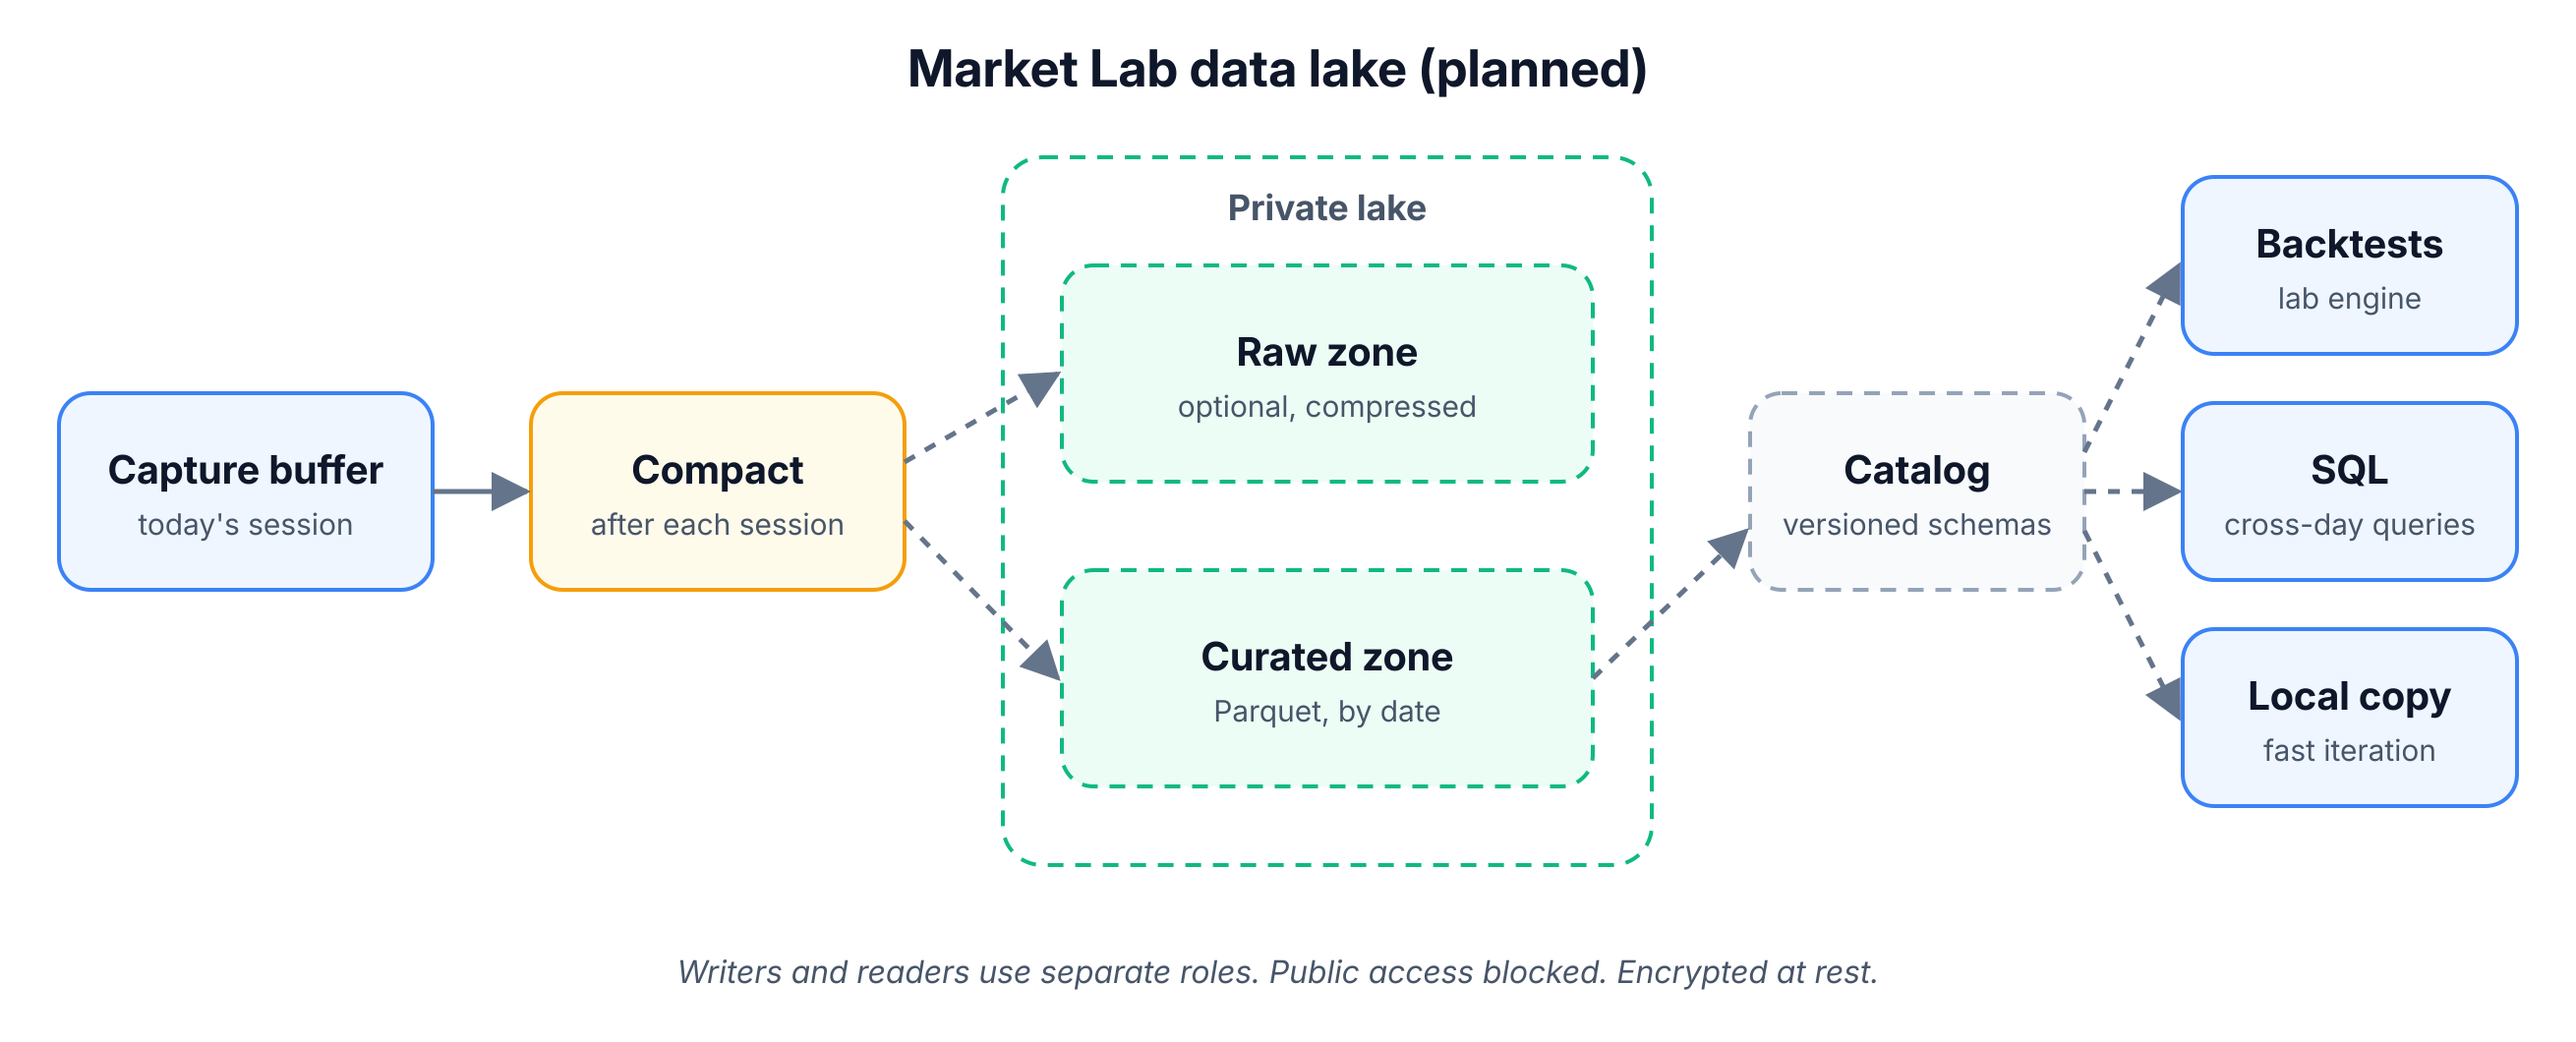
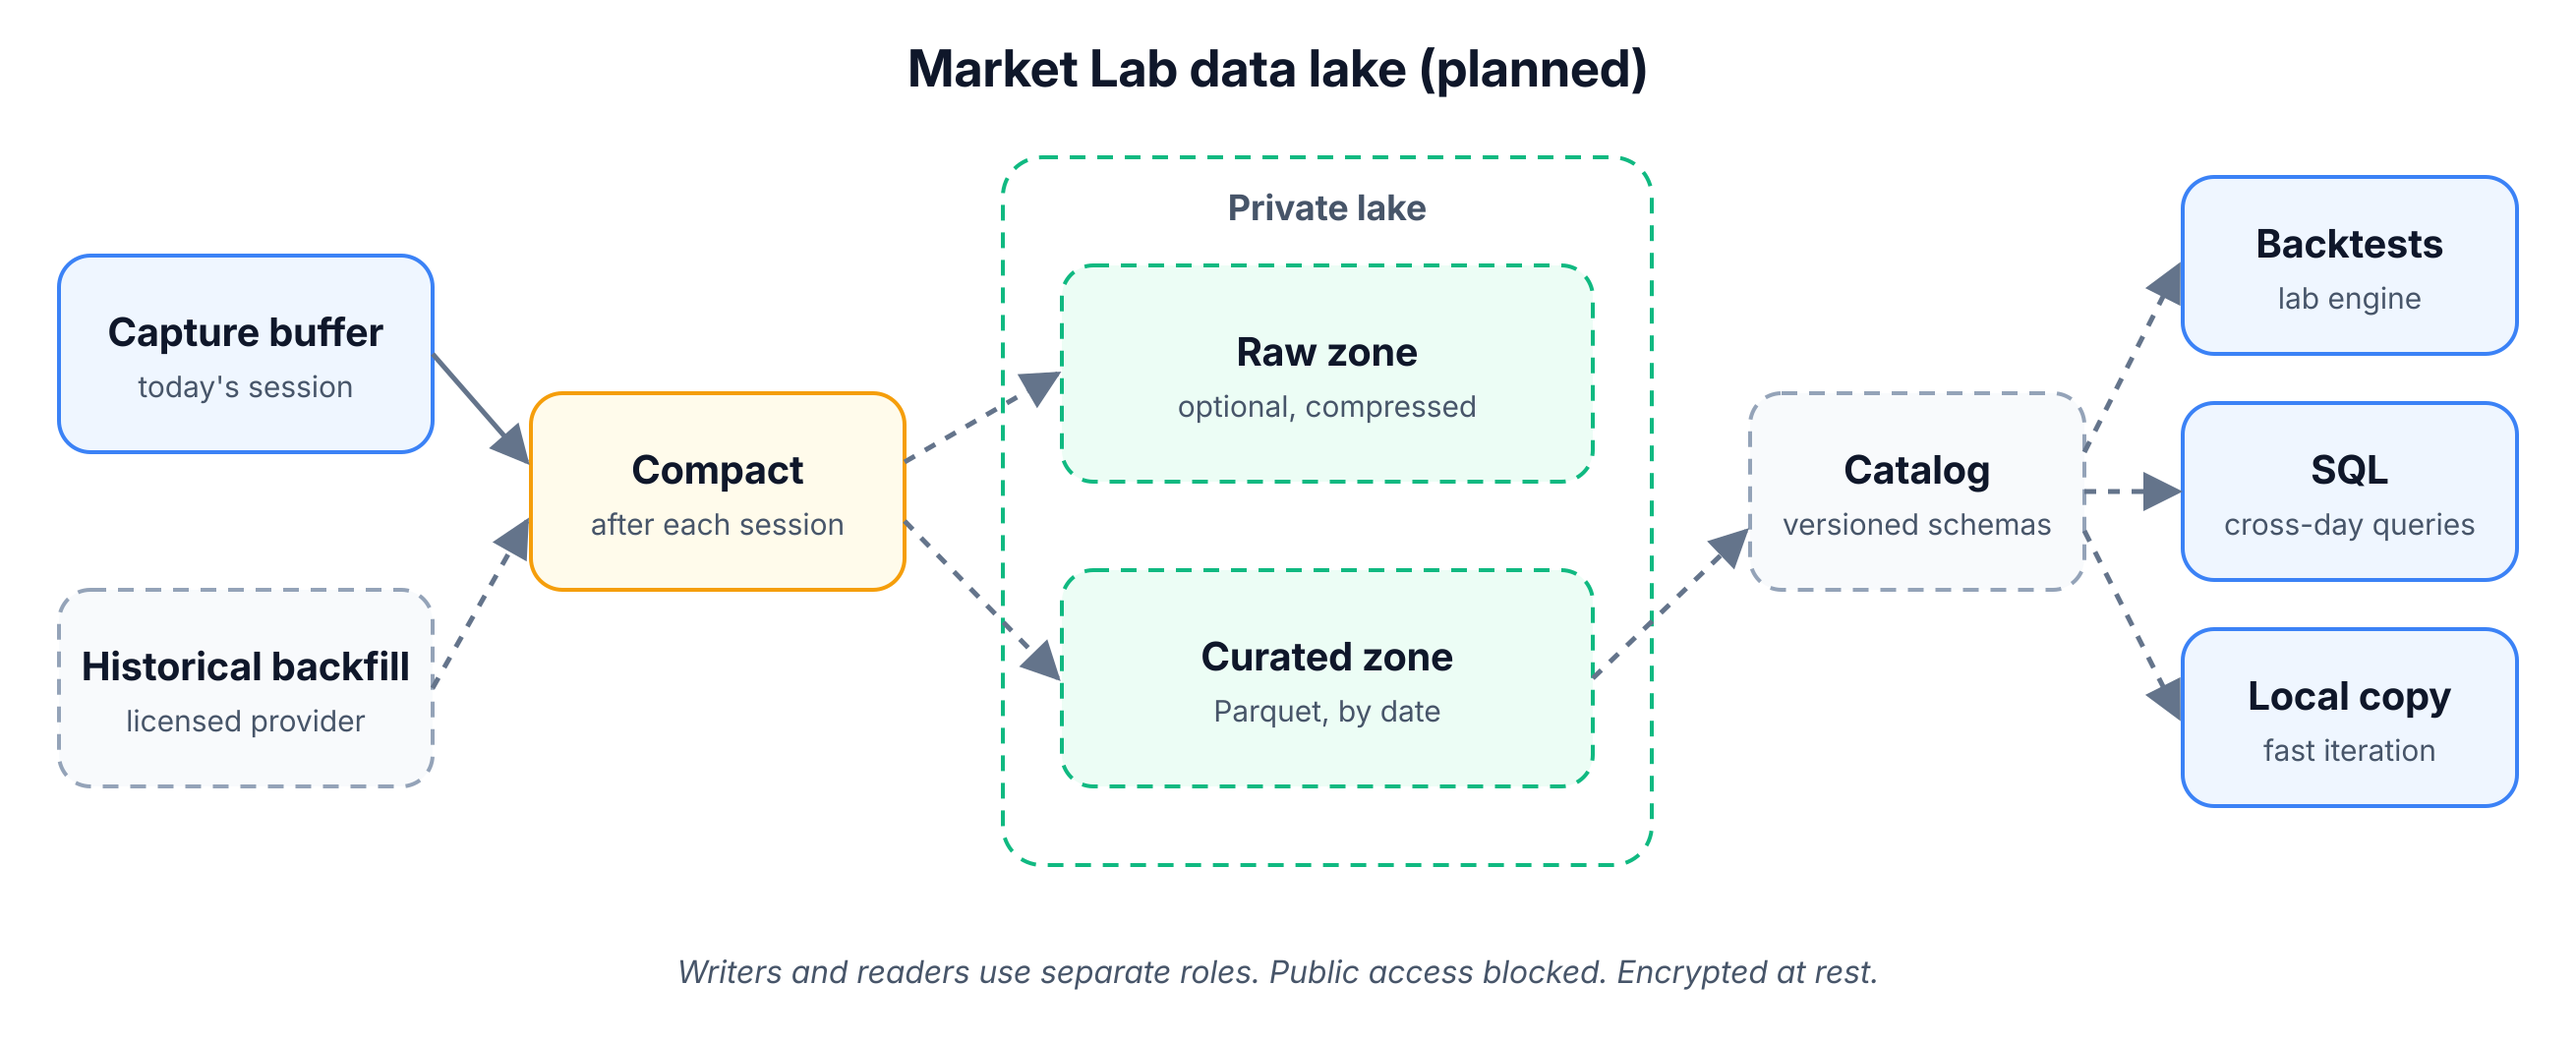
docs: add the planned historical backfill to the Market Lab data lake

diff --git a/market-lab/assets/gen.py b/market-lab/assets/gen.py
@@ -83,7 +83,8 @@ svg("market-lab-current-vs-future.svg", 1200, 430, o)
 # 3. Data lake (planned): zones and how backtests read it.
 o = []
 text(o, 650, 44, "Market Lab data lake (planned)", 26, bold=True)
-box(o, 30, 200, 190, 100, "Capture buffer", "today's session", *BLUE)
+box(o, 30, 130, 190, 100, "Capture buffer", "today's session", *BLUE)
+box(o, 30, 300, 190, 100, "Historical backfill", "licensed provider", *GRAY, dash=True)
 box(o, 270, 200, 190, 100, "Compact", "after each session", *AMBER)
 o.append('<rect x="510" y="80" width="330" height="360" rx="20" fill="none" stroke="#10B981" stroke-width="2" stroke-dasharray="8 6"/>')
 text(o, 675, 112, "Private lake", 18, SUB, bold=True)
@@ -93,7 +94,8 @@ box(o, 890, 200, 170, 100, "Catalog", "versioned schemas", *GRAY, dash=True)
 box(o, 1110, 90, 170, 90, "Backtests", "lab engine", *BLUE)
 box(o, 1110, 205, 170, 90, "SQL", "cross-day queries", *BLUE)
 box(o, 1110, 320, 170, 90, "Local copy", "fast iteration", *BLUE)
-arrow(o, 220, 250, 268, 250)
+arrow(o, 220, 180, 268, 235)
+arrow(o, 220, 350, 268, 265, dash=True)
 arrow(o, 460, 235, 538, 190, dash=True)
 arrow(o, 460, 265, 538, 345, dash=True)
 arrow(o, 810, 345, 888, 270, dash=True)

diff --git a/market-lab/README.md b/market-lab/README.md
@@ -55,7 +55,7 @@ The provider adapter also lets me add or swap a data platform later.
 The data lake is the core of the future state. It's designed, not built.
 The design work covers the zones, the file format, the data model, access, and cost.
 
-![Market Lab data lake, planned: after each session the capture buffer is compacted into a private lake with an optional raw zone and a curated Parquet zone partitioned by date; a catalog with versioned schemas feeds backtests, cross-day SQL, and a local copy for fast iteration](assets/market-lab-data-lake.svg)
+![Market Lab data lake, planned: after each session the capture buffer, plus a planned historical backfill from a licensed provider, is compacted into a private lake with an optional raw zone and a curated Parquet zone partitioned by date; a catalog with versioned schemas feeds backtests, cross-day SQL, and a local copy for fast iteration](assets/market-lab-data-lake.svg)
 
 *Planned. Dashed boxes don't exist yet.*
 
@@ -64,7 +64,7 @@ The design work covers the zones, the file format, the data model, access, and c
 - **Dated folders.** Each capture session writes to its own private, dated folder.
 - **Raw data out of Git.** Live data never gets committed.
 - **Size logging.** After the close, a job records how much data each session wrote and how many calls it used.
-- **Growth and cost models.** Written estimates of how fast the data grows and what each storage option would cost. They drove the design below.
+- **Growth and cost models.** Written estimates of how fast the data grows, what each storage option would cost, and how much disk each historical pull option would use. They drove the design below.
 
 ### Zones
 
@@ -72,6 +72,18 @@ The design work covers the zones, the file format, the data model, access, and c
 - **Raw zone (optional).** Compressed copies of the original captures, kept for replay.
 - **Curated zone.** Cleaned, compacted Parquet tables. This is the durable research copy that backtests read.
 - **One home per role.** Live data lives on the capture machine. The durable research copy lives in the curated zone.
+
+### Historical backfill (planned)
+
+Live capture only builds history going forward. To backtest further back, the lake is planned to take a backfill from a licensed historical market-data provider.
+
+- **Same tables.** Backfilled data lands in the same curated Parquet tables as live capture, with its source recorded.
+- **Event-windowed pulls.** Pull only the dates and windows a test needs, not everything.
+- **A staged ramp.** Start with an hour, then a day, then a week, measuring real sizes before going bigger.
+- **Trimmed at ingest.** Columns a test doesn't need are dropped before saving.
+- **Modeled before buying.** A growth model estimated the disk each pull option would use, with every estimate labeled as one.
+- **Licensed data stays private.** Raw backfill stays in the private lake and is never republished.
+- **I decide on purchases.** Agents size the options. They don't buy anything.
 
 ### Format and data model
 

diff --git a/market-lab/how-market-lab-works.md b/market-lab/how-market-lab-works.md
@@ -21,9 +21,10 @@ Capture is paused on purpose while it moves to AWS. The steps stay the same afte
 ## After the move (planned)
 
 1. **The session is compacted.** After the close, small capture files are merged into Parquet, one table per dataset.
-2. **Data lands in the lake.** Curated tables are split by session date. Compressed raw copies are optional.
-3. **The catalog updates.** New partitions are registered, with a schema version on each table.
-4. **Backtests read it.** The lab engine loads a date range and only the columns it needs.
+2. **Historical backfill joins it.** Data from a licensed historical provider lands in the same tables, with its source recorded.
+3. **Data lands in the lake.** Curated tables are split by session date. Compressed raw copies are optional.
+4. **The catalog updates.** New partitions are registered, with a schema version on each table.
+5. **Backtests read it.** The lab engine loads a date range and only the columns it needs.
 
 ## Around every turn
 
